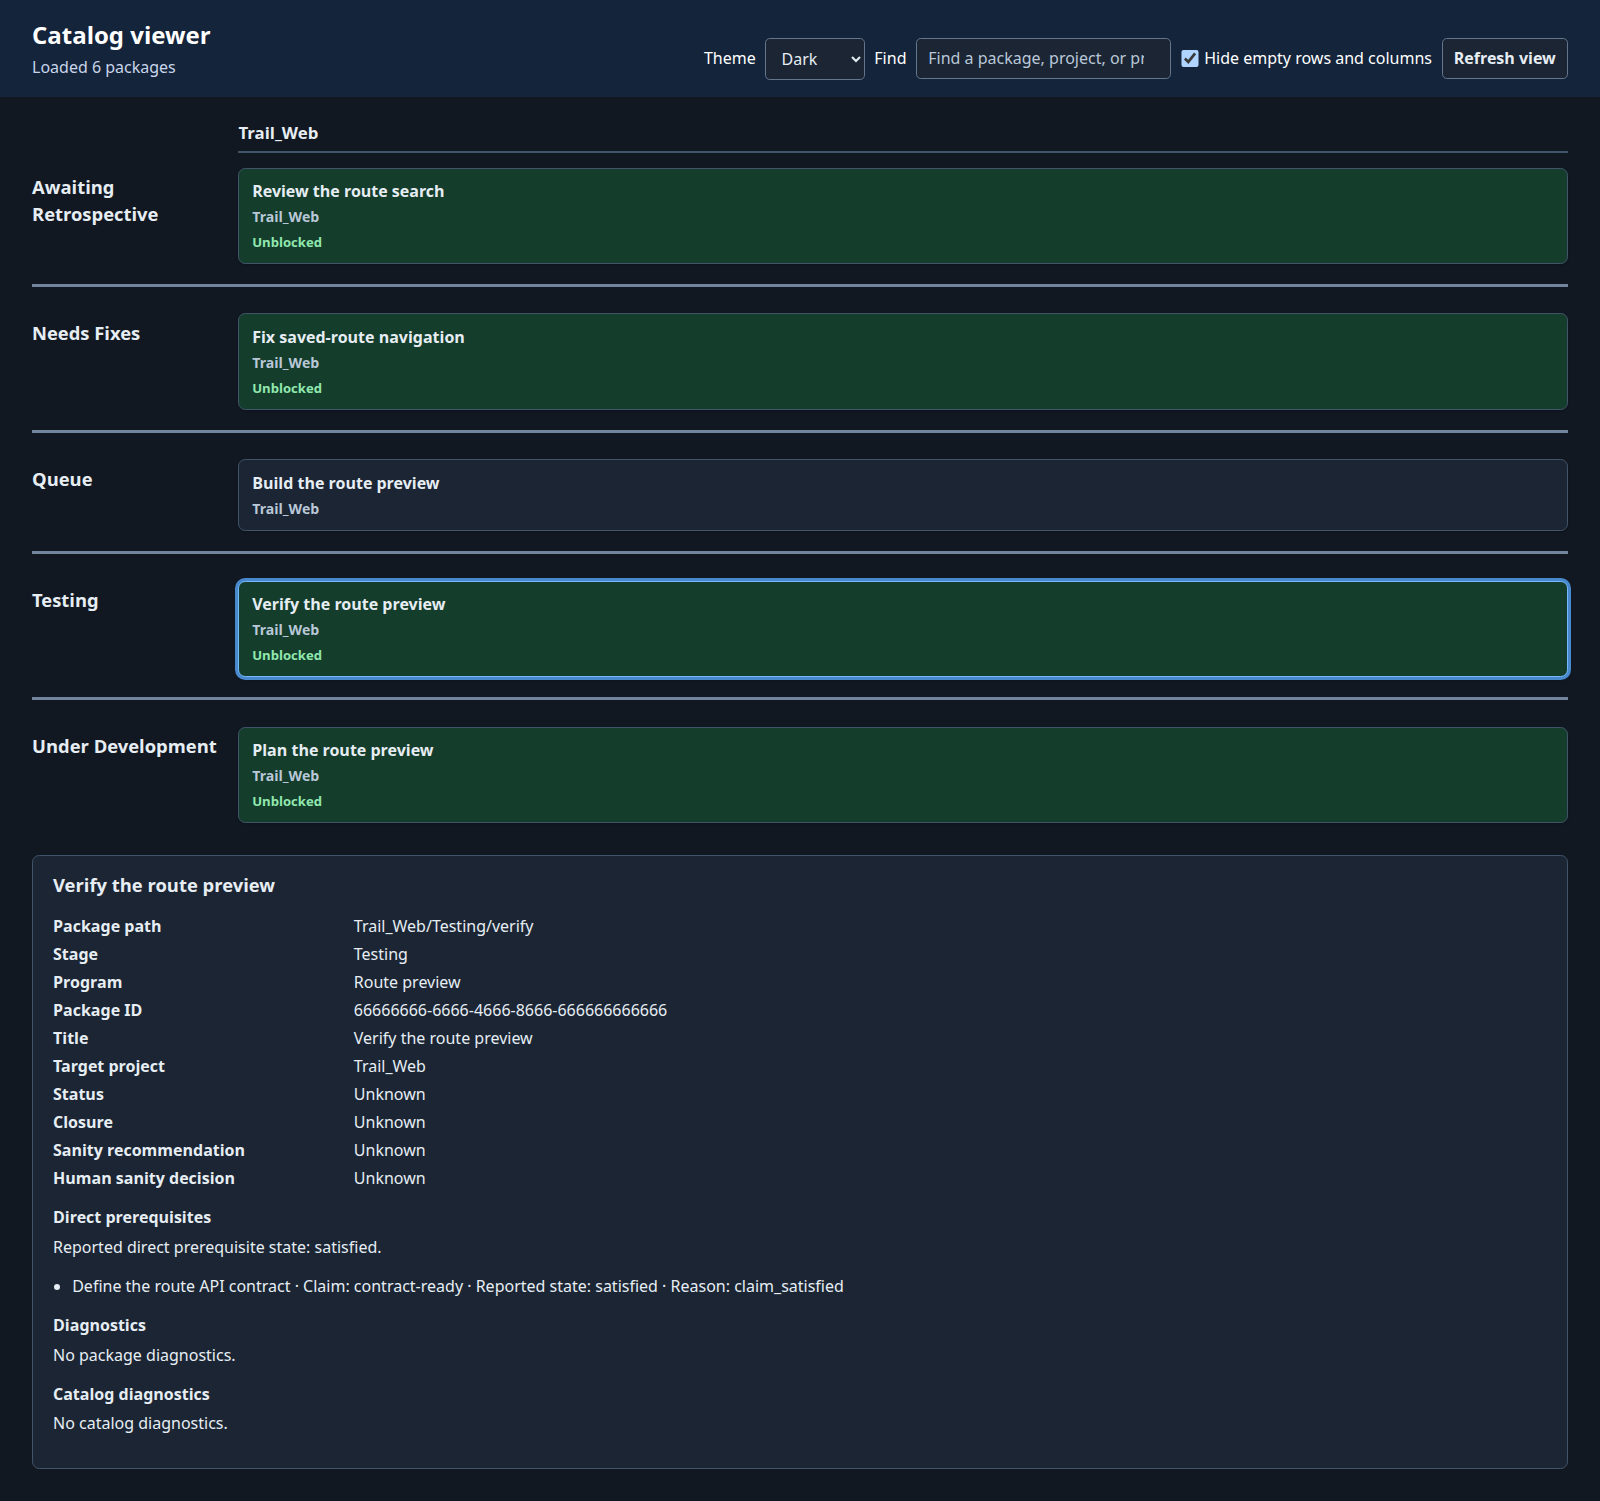
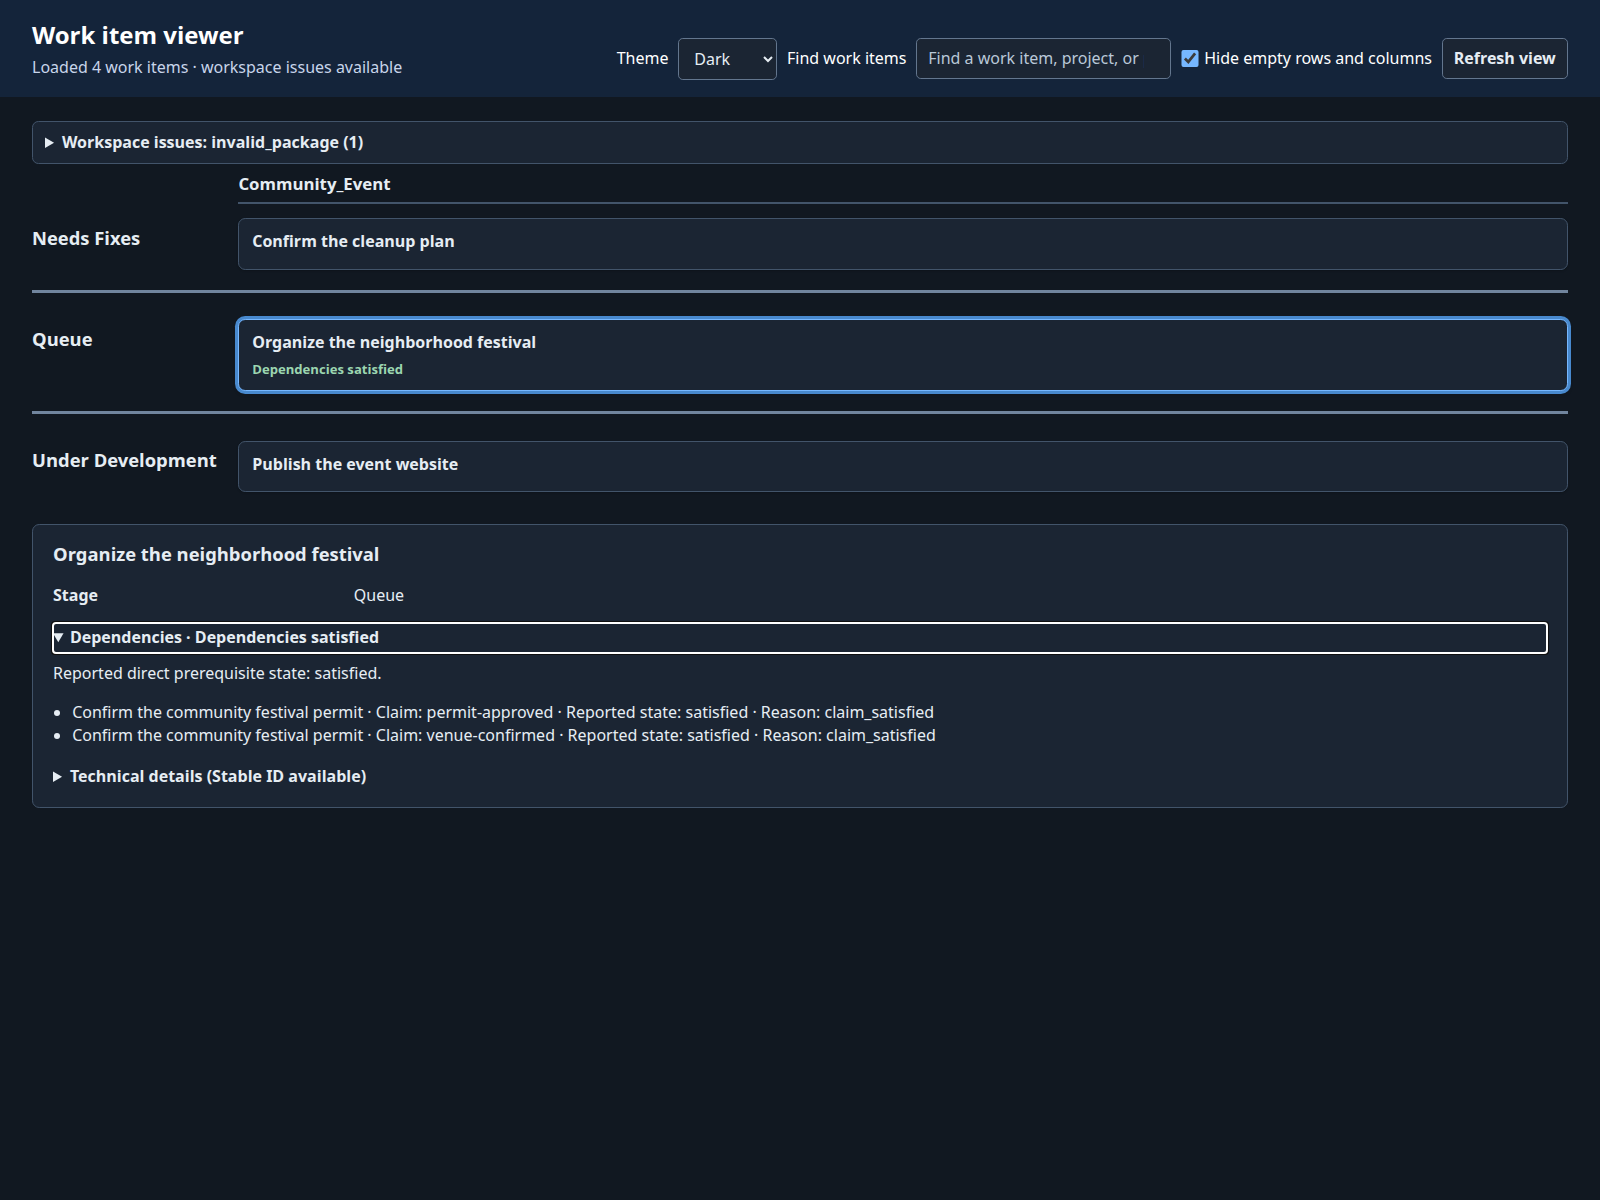
Document work item examples and captures

Changed region(s): [[0.0, 0.0, 1.0, 0.9558], [0.0, 0.185, 0.0938, 0.2467]]

diff --git a/README.md b/README.md
@@ -1,9 +1,9 @@
 # Nyx
 
-Nyx is a project management and tracking tool for software development that
-brings your plans, progress, and dependencies together in a local browser view.
-When work spans several features or repositories, it helps you see where each
-effort stands, which pieces depend on one another, and what needs attention next.
+Nyx is a work item viewer for plans, progress, and dependencies in a local
+browser view. A work item is one specification package on the board. When work
+spans several features or repositories, Nyx helps you see where each item
+stands, which pieces depend on one another, and what needs attention next.
 
 Your specifications remain ordinary Markdown files, where you can develop an
 idea, describe the intended behavior, and keep the context needed to carry it
@@ -17,12 +17,14 @@ files remain the shared record of the work, and Nyx provides a consistent place
 to follow it. Nyx reads your specifications and displays the result; it does
 not edit specifications or move them for you.
 
-![Nyx showing a fictional trail-planning app, with web work linked to an API contract and the route preview selected.](docs/images/sample-board.png)
+![Nyx showing a fictional community event, with the festival plan selected and its permit outcomes available.](docs/images/sample-board.png)
 
-*The route preview can be designed from the completed API contract, but building
-it still depends on an API implementation. Other web work needs fixes or review.*
+*This fictional community-event view shows the board and selected work item in
+the light theme. The compact and expanded disclosure views are documented in
+[running Nyx](docs/running-nyx.md). The bundled trail-planning software sample
+remains available in the [sample walkthrough](examples/sample-specifications/README.md).*
 
-## Following your projects
+## Following your work items
 
 The board brings work from multiple projects into one view, with project columns
 and rows for planning, queued work, implementation, fixes, review, completion,
@@ -60,7 +62,10 @@ python3.12 -m venv .venv
 Open **http://127.0.0.1:8765/**. Select **Build the route preview** to see why
 its prerequisite is not yet satisfied, then compare it with **Plan the route
 preview**. The [sample walkthrough](examples/sample-specifications/README.md)
-explains the fictional project, its custom stage, and the compact-view workflow.
+explains the fictional software project, its custom stage, and the compact-view
+workflow. For a non-programming example, the [workspace guide](docs/workspaces.md)
+also shows a fictional community event with a hidden permit work item and two
+recorded outcomes.
 
 Throughout the linked guides, bare `nyx` is shorthand for the console installed
 above: `.venv/bin/nyx`. That relative path works from the repository root. When

diff --git a/docs/workspaces.md b/docs/workspaces.md
@@ -17,6 +17,43 @@ discovery information. This is a trusted-local workspace contract, not
 containment against a hostile process changing a pathname while a scan is in
 progress.
 
+## A small community-event example
+
+Nyx is useful for planning work outside software too. For example, a fictional
+neighborhood festival can use this workspace layout:
+
+```text
+community-planning/
+└── Community_Event/
+    ├── Queue/
+    │   └── festival/
+    │       └── spec.md
+    └── Done/
+        └── permit/
+            └── spec.md
+```
+
+The event plan can use the same metadata fields as a software specification:
+
+```markdown
+# Organize the neighborhood festival
+Package ID: 123e4567-e89b-42d3-a456-426614174100
+Status: planning
+Prerequisite: 123e4567-e89b-42d3-a456-426614174102 | venue-confirmed
+Prerequisite: 123e4567-e89b-42d3-a456-426614174102 | permit-approved
+
+## Purpose
+
+Coordinate volunteers, food, music, and a safe public event.
+```
+
+The permit work item can record both outcomes with two `Claim` rows. If `Done`
+is hidden during setup, the permit card stays out of the board and the selected
+festival item still shows it as prerequisite context. The interface calls each
+specification a **work item** and displays its directory stage as a board row;
+the original `Package ID`, `Claim`, and `Prerequisite` spellings remain the
+file contract. Use fresh UUIDs in a real workspace.
+
 ## Create your first specification
 
 For a fictional trail-planning app, start with this layout:
@@ -137,3 +174,7 @@ already proceed from the API contract.
 Dependencies and program membership are optional. Start with titles, stable IDs,
 and stages, then use the [specification reference](specification-reference.md)
 when those relationships help you track the work.
+
+The [running guide](running-nyx.md) describes the fictional event captures in
+light and dark themes, including compact view, hidden prerequisite context, and
+keyboard-opened disclosures.

diff --git a/docs/running-nyx.md b/docs/running-nyx.md
@@ -186,6 +186,34 @@ retains the last valid displayed board and browser-local preference.
 
 Choose **Light**, **Dark**, or **System** from the theme menu to suit your display.
 
+## Capture and review the fictional example
+
+The checked-in images use only the fictional community-event data from the
+[workspace guide](workspaces.md). To reproduce them, create that disposable
+workspace outside the repository, start Nyx through its normal local server,
+and configure the `Done` stage as hidden. Do not use a private workspace for a
+public example.
+
+Capture the views from the running browser at a fixed desktop width:
+
+1. Choose **Light**, select **Organize the neighborhood festival**, and save the
+   minimal board view as `docs/images/sample-board.png`.
+2. Choose **Dark**, keep **Hide empty rows and columns** checked, focus the
+   selected card with the keyboard, press **Enter**, then focus the
+   **Dependencies** summary and press **Enter**. Save this compact view as
+   `docs/images/sample-board-compact.png`. The hidden permit work item and its
+   two outcomes should remain visible in the disclosure.
+3. Uncheck **Hide empty rows and columns**, open **Workspace issues** and
+   **Dependencies** with the keyboard, and save the expanded view as
+   `docs/images/sample-board-expanded.png`.
+
+Review each file directly beside the running browser in both themes. Confirm
+that the selected card, hidden dependency context, multiple outcomes, empty
+dimensions, workspace issue, disclosure states, labels, and controls match the
+browser. Reject a capture if it contains a private path or value, was drawn by
+hand, or no longer shows the named state. This procedure is intentionally a
+repeatable browser session; it does not add a permanent screenshot framework.
+
 ## If something looks wrong
 
 - **The board is empty:** check the workspace reported by `nyx --status` on

diff --git a/examples/sample-specifications/README.md b/examples/sample-specifications/README.md
@@ -8,7 +8,9 @@ but the API implementation is not ready for the web feature to use. Meanwhile,
 an existing navigation feature needs a fix and the route-search work is ready
 for review.
 
-This small workspace shows how Nyx brings those efforts together. All names,
+This small workspace shows how Nyx brings those efforts together. Nyx calls
+each specification package a **work item**; the package directory and `spec.md`
+remain the on-disk file contract. All names,
 identifiers, and evidence values are fictional. `Trail_Web/Testing` is a custom
 stage, `Trail_Web/Ready_For_Review` is an admitted empty stage, and the tracked
 `Trail_Mobile/.gitkeep` preserves an admitted empty project without creating a
@@ -27,7 +29,7 @@ nyx
 ```
 
 Open **http://127.0.0.1:8765/**. With all stages shown, the catalog contains
-three projects and six package records. The package records are:
+three projects and six work items. The work items are:
 
 | Project | Stage | Work |
 | --- | --- | --- |
@@ -129,6 +131,9 @@ gives the related work a shared name.
 The package IDs make those links stable when a specification moves between
 stages. The repeated-f hash in the API contract is a synthetic evidence reference
 for this demonstration; use a reference to your actual evidence in your own work.
+
+For a non-programming example using the same `Claim` and `Prerequisite` file
+syntax, see the fictional community-event item in the [workspace guide](../../docs/workspaces.md).
 
 Keep this bundled sample as a reference and create your own workspace using the
 [workspace guide](../../docs/workspaces.md). The sample directory contains only

diff --git a/docs/specification-reference.md b/docs/specification-reference.md
@@ -21,6 +21,28 @@ Put metadata in that header, one field per line.
 | `Prerequisite: UUID \| claim-name` | A required outcome from another specification. |
 | `Superseded By: UUID` | Optional reference to a replacement specification. |
 
+## File syntax and displayed terms
+
+The field spellings above are the stable `spec.md` file contract. Keep writing
+`Package ID`, `Target repo`, `Claim`, and `Prerequisite` exactly as shown, even
+when the browser uses friendlier labels. Nyx presents a package as a **work
+item**, its directory as a stage, and a `Target repo` value as **Target project**
+when that context is useful. The stable package ID is available under the
+technical disclosure rather than occupying the everyday card view.
+
+For example, a community-event item can point to two outcomes from one permit
+item by repeating the `Prerequisite` field:
+
+```text
+Prerequisite: 123e4567-e89b-42d3-a456-426614174102 | venue-confirmed
+Prerequisite: 123e4567-e89b-42d3-a456-426614174102 | permit-approved
+```
+
+The providing item records those outcomes with separate `Claim` rows. The file
+syntax remains unchanged while the selected work item shows each prerequisite
+in its Dependencies disclosure. A configured-hidden provider can still appear
+there as context.
+
 Nyx also reads `Closure`, `Sanity Recommendation`, and `Human Sanity Decision`
 as reported text. These fields are optional; they do not trigger actions.
 Project and stage come from the package's directory location.
